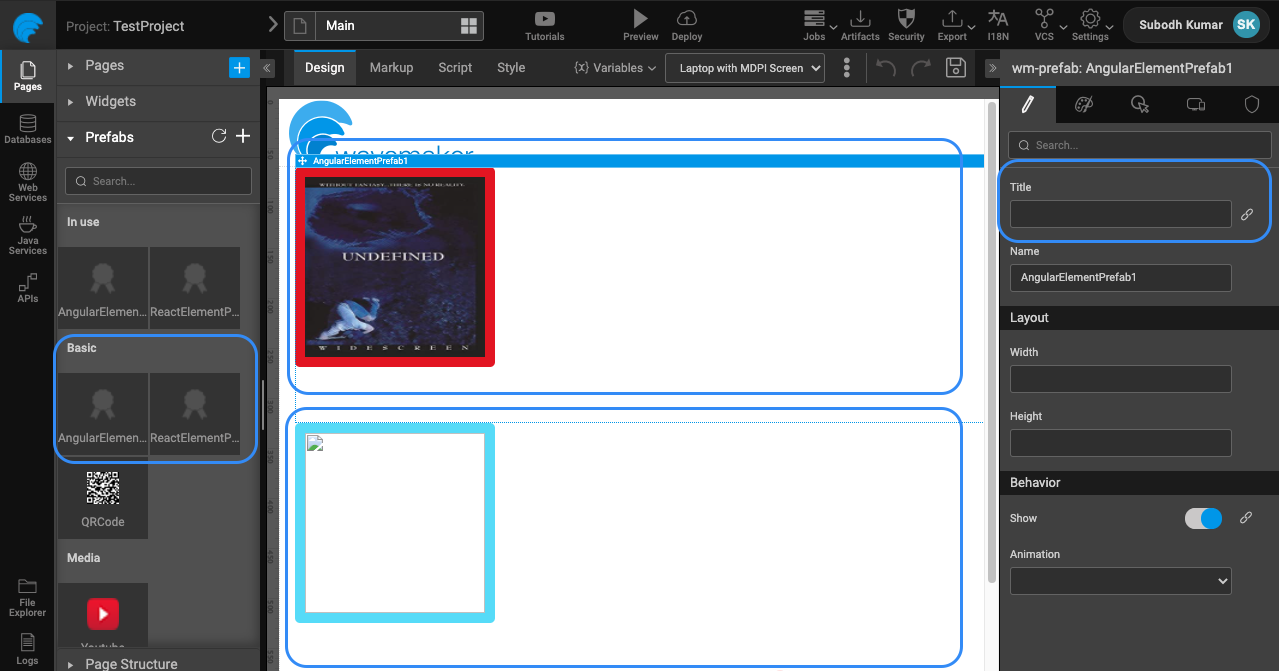
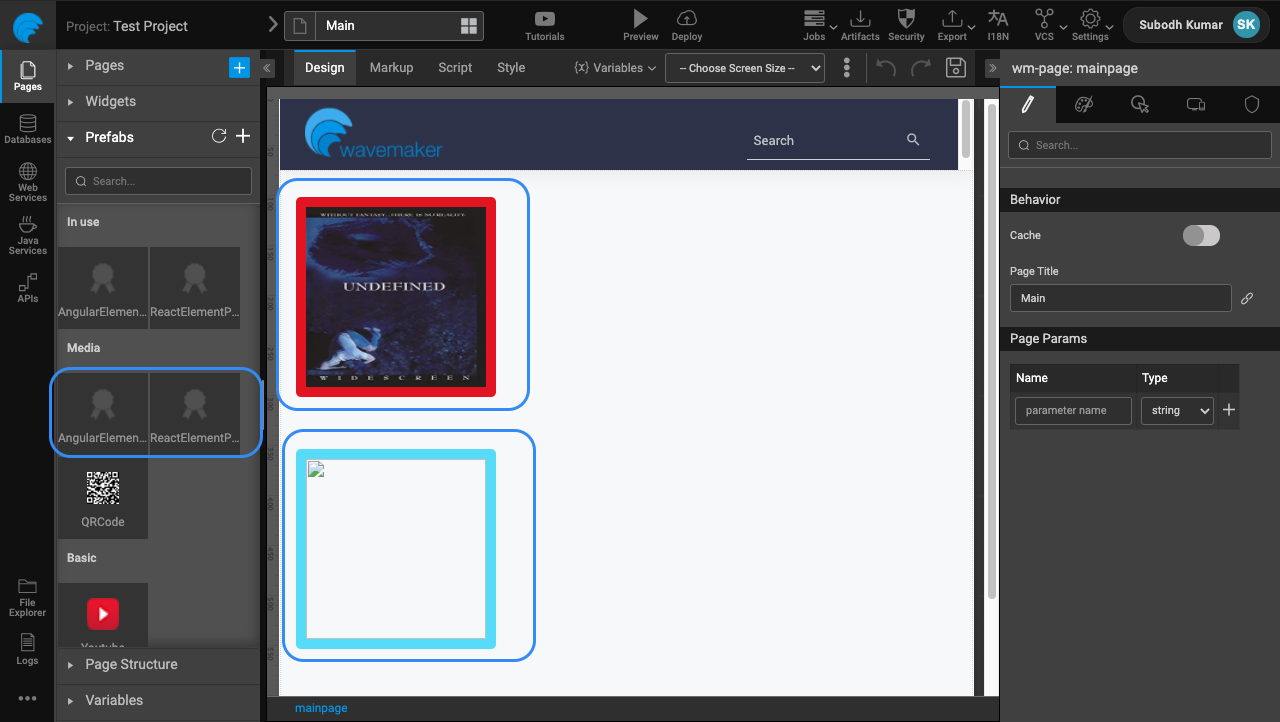
Screenshot & Step updates

diff --git a/learn/how-tos/create-prefab-using-custom-element.md b/learn/how-tos/create-prefab-using-custom-element.md
@@ -278,12 +278,21 @@ Prefab.onPropertyChange = function(key, newVal, oldVal) {
 ...
 ```
 
-* Import the `AngularElementPrefab`, `ReactElementPrefab` (names may vary depending on what users have saved their prefabs with) Prefabs from Artifacts listing dialog. 
+* Drag & Drop  `AngularElementPrefab`, `ReactElementPrefab` (names may vary depending on what users have saved their prefabs with) Prefabs onto the page. 
 
 [![](/learn/assets/howto_prefab_wc_17.png)](/learn/assets/howto_prefab_wc_17)
 
-* Bind values to `Title` property on the Prefab. 
+* Drag & Drop a _Select_ widget into the page, & provide static list of movie title as its _Dataset_ value. We will be binding the selected title as the input for Prefabs.
+
+[![](/learn/assets/howto_prefab_wc_18.png)](/learn/assets/howto_prefab_wc_18)
+
+* Bind `Title` property value on the Prefab to value from _Select_ widget.
+
+[![](/learn/assets/howto_prefab_wc_19.png)](/learn/assets/howto_prefab_wc_19)
+
 * **Preview** & **Deploy** the application to validate Prefabs created from Angular & React Components.
+
+[![](/learn/assets/howto_prefab_wc_20.png)](/learn/assets/howto_prefab_wc_20)
 
 
 ## See Also
